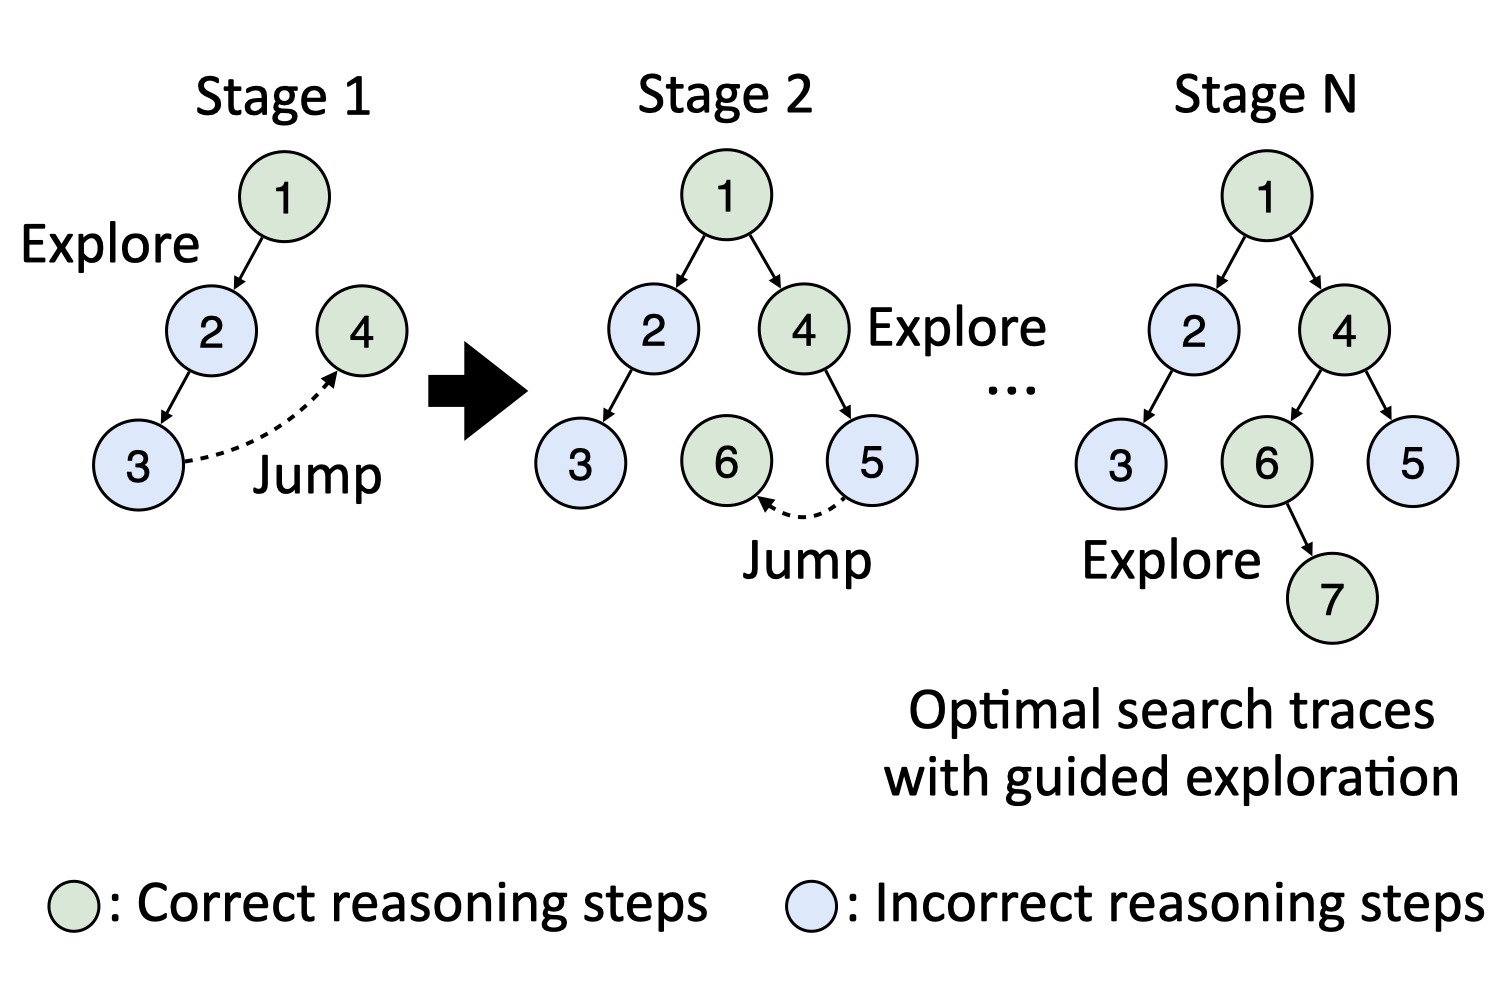
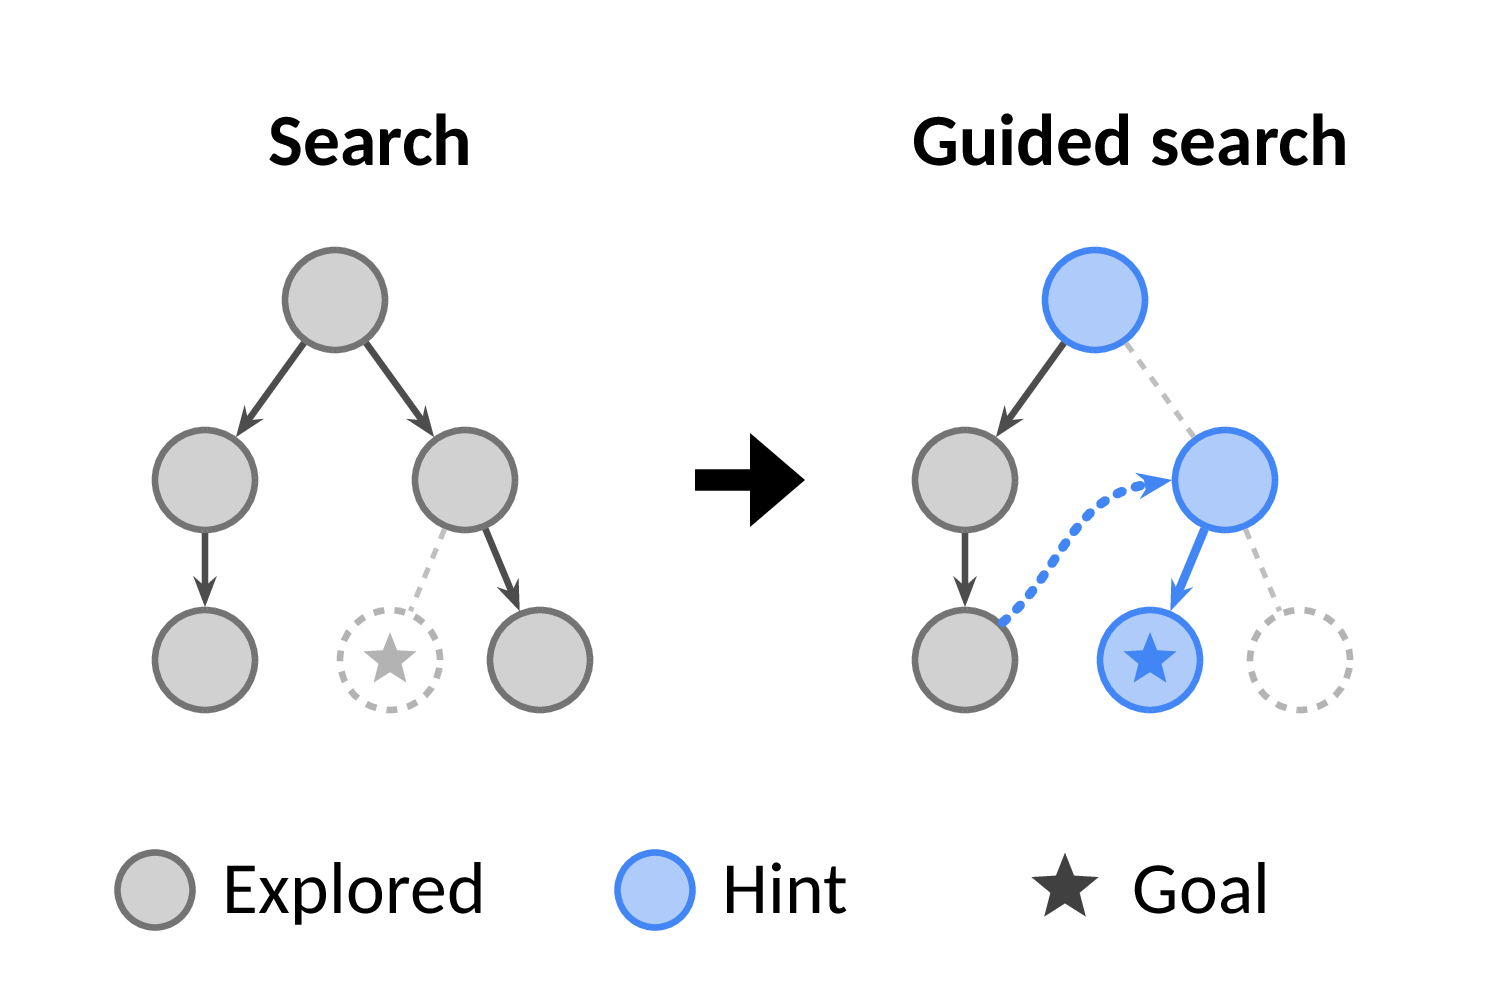
Update preprint entry, thumbnails, research statement, and service

Changed region(s): [[0.0, 0.062, 0.9813, 0.806], [0.0307, 0.837, 1.0, 0.93], [0.2147, 0.589, 0.3987, 0.713]]

diff --git a/index.html b/index.html
@@ -29,7 +29,7 @@
                   Seungyong Moon
                 </p>
                 <p>
-                  I am a final-year PhD student in Computer Science & Engineering at Seoul National University advised by Prof. <a href="https://mllab.snu.ac.kr/hyunoh/">Hyun Oh Song</a>. I previously graduated from the same university with BA in Economics and BS in Mathematical Sciences.
+                  I am a final-year PhD student in Computer Science & Engineering at Seoul National University advised by Prof. <a href="https://mllab.snu.ac.kr/hyunoh/">Hyun Oh Song</a>. I previously graduated from the same university with a BA in Economics and a BS in Mathematical Sciences.
                 </p>
                 <p style="text-align:center">
                   <a href="mailto:symoon11@mllab.snu.ac.kr">Email</a> &nbsp/&nbsp
@@ -50,7 +50,8 @@
               <td style="padding:16px;width:100%;vertical-align:middle">
                 <h2>Research</h2>
                 <p>
-                  My research develops reliable autonomous agents across perception, control, and reasoning, with contributions to adversarial robustness, offline reinforcement learning, open-world generalization, and efficient language-model reasoning.
+                  My research aims to build autonomous agents that generalize reliably beyond their training distribution. I have worked on adversarial robustness, generalization in reinforcement learning, and language-model reasoning, and most recently on robot learning with vision-language-action models.
+                </p>
               </td>
             </tr>
           </tbody></table>
@@ -65,15 +66,16 @@
 
             <tr>
               <td style="padding:16px;width:20%;vertical-align:middle">
+                <img width="160" src="images/moon26arxiv.png">
               </td>
               <td style="padding:16px;width:80%;vertical-align:middle">
                 <a href="https://arxiv.org/abs/2610.32676">
                   <papertitle>Retiming Robot Demonstrations with a Learned Speed Prior</papertitle>
                 </a>
                 <br>
-                <strong>Seungyong Moon</strong>,
-                Deokjae Lee,
-                Hansang Lee,
+                <strong>Seungyong Moon*</strong>,
+                Deokjae Lee*,
+                Hansang Lee*,
                 Munkhtselmeg Battsengel,
                 Youngin Kim,
                 Seonghyeon Yun,
@@ -86,7 +88,7 @@
                 <br>
                 <a href="https://mllab.snu.ac.kr/projects/learned_speed_prior">project</a> /
                 <a href="data/moon26arxiv.txt">bibtex</a>
-                <p>The pace of a robot demonstration is often set by the teleoperator rather than the task, so policies inherit operator-specific timing. We learn a speed prior from large-scale demonstration data and use it to retime demonstrations to a consistent clock, yielding faster and smoother vision-language-action policies.</p>
+                <p>The pace of a robot demonstration is often set by the teleoperator rather than the task. We learn a speed prior from large-scale data and use it to retime demonstrations to a consistent clock, yielding faster and smoother vision-language-action policies.</p>
               </td>
             </tr>
 
@@ -261,7 +263,7 @@
               <td style="padding:16px;width:100%;vertical-align:middle">
                 <h2>Patents</h2>
                 <ul>
-                  <li>Apparatus and method with out-of-distribution data detection (US Patent Pub. 2024/0242072)</li>
+                  <li>Apparatus and method with out-of-distribution data detection (US Patent 12,783,881)</li>
                   <li>Image recognition method and apparatus, image preprocessing apparatus, and method of training neural network (US Patent 11,921,818)</li>
                   <li>Method and apparatus for classifying image (KR Patent 10-2505303)</li>
                 </ul>
@@ -305,6 +307,7 @@
               <td style="padding:16px;width:100%;vertical-align:middle">
                 <h2>Honors and Awards</h2>
                 <ul>
+                  <li>ICML Silver Reviewer Award (2026) </li>
                   <li>NeurIPS Top Reviewers (2022, 2025) </li>
                   <li>NeurIPS Scholar Award (2023) </li>
                   <li>NAVER Ph.D. Fellowship Award (2022) </li>
@@ -322,8 +325,8 @@
               <td style="padding:16px;width:100%;vertical-align:middle">
                 <h2>Academic Services</h2>
                 <ul>
-                  <li>Conference Reviewer: NeurIPS (2021 &ndash; 2026), ICML (2022 &ndash; 2026), ICLR (2024 &ndash; 2026), AAAI (2022 &ndash; 2025), AAAI-AIA (2026), AAAI-Demo (2026),  AISTATS (2025 &ndash; 2026), RLC (2024) </li>
-                  <li>Journal Reviewer: Neurocomputing (2021), Machine Learning (2023), Transactions on Intelligent Vehicles (2023)
+                  <li>Conference Reviewer: NeurIPS (2021 &ndash; 2026), ICML (2022 &ndash; 2026), ICLR (2024 &ndash; 2027), AAAI (2022 &ndash; 2025), AAAI-AIA (2026), AAAI-Demo (2026),  AISTATS (2025 &ndash; 2026), RLC (2024) </li>
+                  <li>Journal Reviewer: Neurocomputing (2021), Machine Learning (2023), Transactions on Intelligent Vehicles (2023), Pattern Recognition (2026), TMLR (2026) </li>
                 </ul>
               </td>
             </tr>

diff --git a/images/moon25neurips.tex b/images/moon25neurips.tex
@@ -1,0 +1,50 @@
+\documentclass{article}
+\usepackage[paperwidth=15cm,paperheight=10cm,margin=0cm]{geometry}
+\usepackage[sfdefault]{carlito}
+\usepackage[T1]{fontenc}
+\usepackage{tikz}
+\usetikzlibrary{arrows.meta,shapes.geometric}
+\definecolor{cOurs}{HTML}{4285F4}\definecolor{cOursLight}{HTML}{AECBFA}
+\pagestyle{empty}
+\begin{document}\noindent
+\begin{tikzpicture}[x=1cm,y=1cm,
+  lab/.style={font=\fontsize{21}{24}\selectfont},
+  ttl/.style={anchor=base, font=\fontsize{21}{24}\bfseries\selectfont},
+  nd/.style={circle, minimum size=1.0cm, inner sep=0pt, line width=1.8pt},
+  ex/.style={nd, draw=black!55, fill=black!18},
+  hint/.style={nd, draw=cOurs, fill=cOursLight},
+  un/.style={nd, draw=black!30, fill=white, dashed},
+  e/.style={-{Stealth[length=3mm]}, line width=1.8pt, black!70},
+  eh/.style={-{Stealth[length=3mm]}, line width=2.4pt, cOurs},
+  eu/.style={line width=1.4pt, black!25, dashed},
+  jump/.style={line width=2.6pt, cOurs, dash pattern=on 1.5pt off 4pt, line cap=round},
+  goal/.style={star, star points=5, star point ratio=2.3, minimum size=0.55cm, inner sep=0pt}]
+\useasboundingbox (0,0) rectangle (15,10);
+\newcommand{\pos}{\coordinate (R) at (0,0); \coordinate (A) at (-1.3,-1.8); \coordinate (A1) at (-1.3,-3.6);
+  \coordinate (B) at (1.3,-1.8); \coordinate (B1) at (0.55,-3.6); \coordinate (B2) at (2.05,-3.6);}
+% ---- search without hints
+\begin{scope}[shift={(3.35,7.0)}]\pos
+  \node[ex] (r) at (R) {}; \node[ex] (a) at (A) {}; \node[ex] (a1) at (A1) {};
+  \node[ex] (b) at (B) {}; \node[un] (b1) at (B1) {}; \node[ex] (b2) at (B2) {};
+  \node[goal, fill=black!30] at (B1) {};
+  \draw[e] (r) -- (a); \draw[e] (a) -- (a1); \draw[e] (r) -- (b); \draw[e] (b) -- (b2); \draw[eu] (b) -- (b1);
+\end{scope}
+\node[ttl] at (3.7,8.35) {Search};
+% ---- arrow
+\draw[-{Triangle[length=5.5mm, width=9mm]}, line width=6pt] (6.95,5.2) -- (8.05,5.2);
+% ---- search with hints
+\begin{scope}[shift={(10.95,7.0)}]\pos
+  \node[hint] (r) at (R) {}; \node[ex] (a) at (A) {}; \node[ex] (a1) at (A1) {};
+  \node[hint] (b) at (B) {}; \node[hint] (b1) at (B1) {}; \node[un] (b2) at (B2) {};
+  \node[goal, fill=cOurs] at (B1) {};
+  \draw[e] (r) -- (a); \draw[e] (a) -- (a1); \draw[eu] (r) -- (b); \draw[eh] (b) -- (b1); \draw[eu] (b) -- (b2);
+  \draw[jump] (a1.north east) to[out=40, in=190] ([xshift=-2.6mm,yshift=-0.45mm]b.west);
+  \draw[cOurs, line width=2.6pt, -{Stealth[length=3.4mm]}] ([xshift=-2.7mm,yshift=-0.47mm]b.west) -- (b.west);
+\end{scope}
+\node[ttl] at (11.3,8.35) {Guided search};
+% ---- legend
+\node[ex, minimum size=0.75cm] at (1.55,1.1) {}; \node[lab, anchor=base west] at (2.1,0.87) {Explored};
+\node[hint, minimum size=0.75cm] at (6.55,1.1) {}; \node[lab, anchor=base west] at (7.1,0.87) {Hint};
+\node[goal, fill=black!75, minimum size=0.7cm] at (10.65,1.12) {}; \node[lab, anchor=base west] at (11.2,0.87) {Goal};
+\end{tikzpicture}
+\end{document}

diff --git a/images/moon26arxiv.tex b/images/moon26arxiv.tex
@@ -1,0 +1,40 @@
+\documentclass{article}
+\usepackage[paperwidth=15cm,paperheight=10cm,margin=0cm]{geometry}
+\usepackage[sfdefault]{carlito}
+\usepackage[T1]{fontenc}
+\usepackage{tikz}
+\usetikzlibrary{arrows.meta}
+\definecolor{cOurs}{HTML}{4285F4}
+\pagestyle{empty}
+\begin{document}\noindent
+\begin{tikzpicture}[x=1cm,y=1cm,
+  lab/.style={font=\fontsize{21}{24}\selectfont},
+  ax/.style={-{Stealth[length=3.5mm]}, line width=1.6pt},
+  rec/.style={black!40, line width=3.2pt, line join=round, line cap=round},
+  ours/.style={cOurs, line width=4.2pt, line cap=round}]
+\useasboundingbox (0,0) rectangle (15,10);
+% ---- speed
+\begin{scope}[shift={(3.55,5.75)}, scale=1.75]
+  \draw[rec] (-1.60,-0.35) -- (-1.30,-0.15) -- (-1.00,-0.45) -- (-0.70,-0.25) -- (-0.55,-0.70) -- (-0.40,-1.12) -- (-0.25,-0.70) -- (-0.10,-0.20) -- (0.20,-0.45) -- (0.45,-0.85) -- (0.70,-0.50) -- (1.00,-0.20) -- (1.30,-0.40) -- (1.60,-0.20);
+  \draw[ours] plot[smooth, tension=0.6] coordinates {(-1.6,0.35) (-1,0.47) (-0.3,0.55) (0.15,0.15) (0.45,-0.45) (0.75,0.15) (1.2,0.55) (1.6,0.6)};
+  \draw[ax] (-1.6,-1.2) -- (1.8,-1.2);
+  \draw[ax] (-1.6,-1.2) -- (-1.6,1.05);
+\end{scope}
+\node[lab, anchor=base, font=\fontsize{21}{24}\bfseries\selectfont] at (3.55,8.35) {Speed};
+\node[lab, anchor=base] at (3.75,2.7) {Arc length};
+% ---- arrow
+\draw[-{Triangle[length=5.5mm, width=9mm]}, line width=6pt] (6.95,5.5) -- (8.05,5.5);
+% ---- clock
+\begin{scope}[shift={(11.6,5.75)}, scale=1.75]
+  \draw[rec] (-1.60,-1.20) -- (-1.00,-0.95) -- (-0.60,-0.76) -- (-0.40,-0.57) -- (-0.40,-0.19) -- (-0.20,0.00) -- (0.20,0.18) -- (0.40,0.31) -- (0.60,0.49) -- (1.00,0.69) -- (1.60,0.95);
+  \draw[ours] plot[smooth, tension=0.5] coordinates {(-1.60,-1.20) (-1.00,-1.02) (-0.40,-0.85) (0.10,-0.70) (0.30,-0.61) (0.50,-0.45) (0.70,-0.32) (1.00,-0.22) (1.60,-0.06)};
+  \draw[ax] (-1.6,-1.2) -- (1.8,-1.2);
+  \draw[ax] (-1.6,-1.2) -- (-1.6,1.05);
+\end{scope}
+\node[lab, anchor=base, font=\fontsize{21}{24}\bfseries\selectfont] at (11.6,8.35) {Time};
+\node[lab, anchor=base] at (11.8,2.7) {Arc length};
+% ---- legend
+\draw[rec] (1.3,1.1) -- (2.5,1.1); \node[lab, anchor=base west] at (2.65,0.87) {Demonstration};
+\draw[ours] (8.4,1.1) -- (9.6,1.1); \node[lab, anchor=base west] at (9.75,0.87) {Speed prior};
+\end{tikzpicture}
+\end{document}
